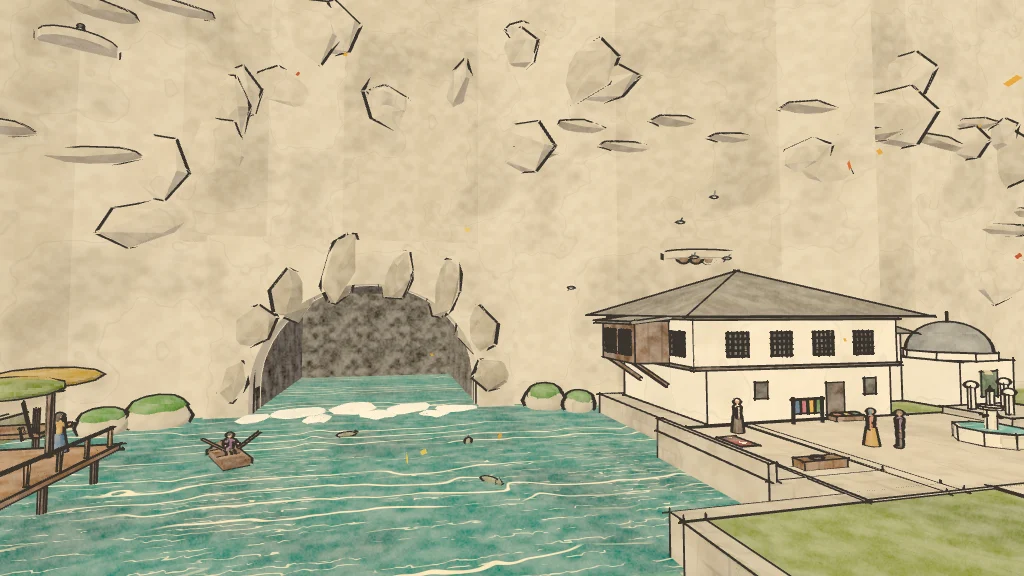
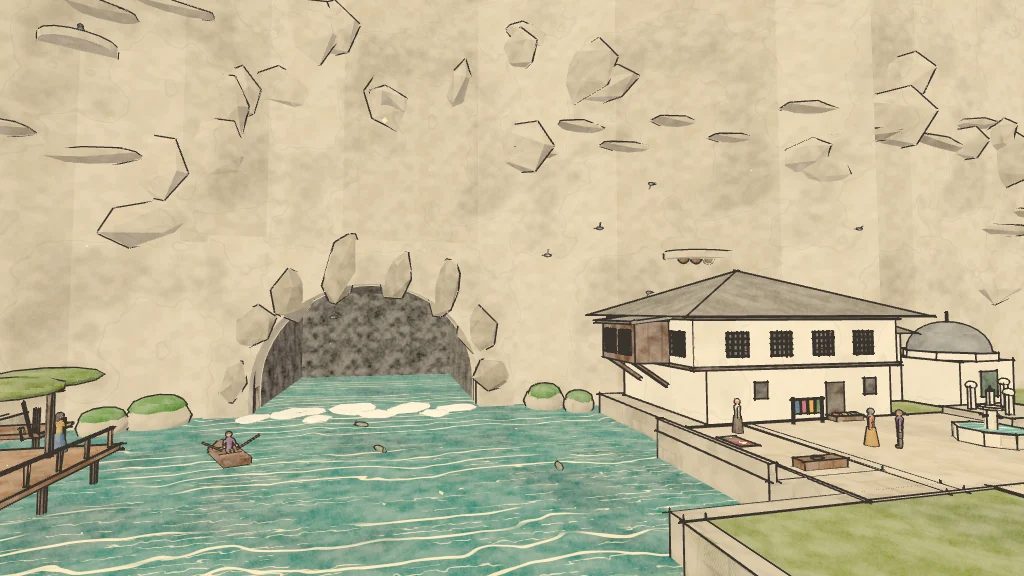
Two new art styles (cel shading, comic book); Blagaj moves to summer
Cel shading: flat colour in two hard bands of light, a crisp highlight and a thin
rim of light. Comic book: punchy flat colour, halftone dots in the shadows and the
sky, ink cross-hatching in the deepest shadows, newsprint paper. Both draw bolder,
darker outlines. Blagaj is summer now (boats to the cave at low water, swallows
nesting, figs and grapes): green trees and vine, a higher sun, sparkles on the water.

diff --git a/src/paper.js b/src/paper.js
@@ -8,9 +8,10 @@ import { LineMaterial } from 'three/addons/lines/LineMaterial.js';
 import S from './settings.js';
 
 // The look. The original is the watercolour; the others are trials (this file's shader differs between them, and
-// pixel art is also drawn small and scaled up, src/look.js): coloured pencil, crayon, gouache, spray paint and pixel art.
+// pixel art is also drawn small and scaled up, src/look.js): coloured pencil, crayon, gouache, spray paint, pixel art,
+// cel shading and comic book (these two also draw bolder, darker outlines: inkFor()).
 // ?style= in the address wins, then the choice made in the pause menu ("Style"), then settings.js
-export const STYLES = ['watercolor', 'pencil', 'crayon', 'gouache', 'spray', 'pixel'];
+export const STYLES = ['watercolor', 'pencil', 'crayon', 'gouache', 'spray', 'pixel', 'cel', 'comic'];
 export const onStyle = [];      // called after a switch
 const STYLE_KEY = 'slavuj-style';
 const storedStyle = () => { try { return localStorage.getItem(STYLE_KEY); } catch (e) { return null; } };
@@ -22,6 +23,7 @@ const washMats = [];
 export function setStyle(name) {
   look.style = pickStyle(name); try { localStorage.setItem(STYLE_KEY, look.style); } catch (e) { /* no storage */ }
   for (const m of washMats) { m.defines = styleDefines(); m.needsUpdate = true; }
+  applyInk();
   for (const f of onStyle) f(look.style);
 }
 
@@ -233,7 +235,7 @@ void main(){
   float rim = m * smoothstep(front - 0.11, front - 0.04, d);
   float damp = (1.0 - m) * (1.0 - smoothstep(front, front + 0.25, d)) * step(0.001, p);
 
-#if defined(STYLE_PENCIL) || defined(STYLE_CRAYON) || defined(STYLE_GOUACHE) || defined(STYLE_SPRAY) || defined(STYLE_PIXEL)
+#if defined(STYLE_PENCIL) || defined(STYLE_CRAYON) || defined(STYLE_GOUACHE) || defined(STYLE_SPRAY) || defined(STYLE_PIXEL) || defined(STYLE_CEL) || defined(STYLE_COMIC)
   float lit = 1.0 - shade;
   vec3 base = col; float lum = dot(base, vec3(0.3, 0.59, 0.11));
   vec3 painted;
@@ -306,6 +308,38 @@ void main(){
   m = step(0.5, m); rim = 0.0; damp = 0.0;      // a crisp edge as the colour arrives
   hatch = 0.0; pink = step(0.18, pink) * 0.6;
   #endif
+  #ifdef STYLE_CEL
+  // ---- cel shading: flat colour in two hard bands of light, a crisp highlight and a thin rim of light; bold outlines ----
+  paper = uPaper;
+  base = (pat > 0.5 && pat < 1.5) ? col : mix(vCol, vBleed, step(0.72, blotch) * 0.3);      // (no soft blotches: crisp patches)
+  base = clamp(mix(vec3(dot(base, vec3(0.3, 0.59, 0.11))), base, 1.3), 0.0, 1.0);
+  vec3 V = normalize(cameraPosition - vWorld), H = normalize(L + V);
+  float band = step(0.46, lit);
+  painted = sky ? col : mix(base * mix(vec3(0.6, 0.58, 0.8), vec3(0.64, 0.5, 0.68), sun), base * 1.03, band);
+  float spec = sky ? 0.0 : step(0.965, max(dot(N, H), 0.0)) * band;
+  painted = mix(painted, min(base * 1.25 + 0.16, vec3(1.0)), spec * 0.7);
+  painted = mix(painted, min(base * 1.18 + 0.06, vec3(1.0)), sky ? 0.0 : step(0.66, 1.0 - max(dot(N, V), 0.0)) * band * 0.35);
+  painted = mix(painted, vec3(0.97, 0.98, 1.0), step(0.35, streak));
+  m = step(0.5, m); rim = 0.0; damp = 0.0;      // a crisp edge as the colour arrives
+  hatch = 0.0; pink = step(0.18, pink) * 0.55;
+  #endif
+  #ifdef STYLE_COMIC
+  // ---- comic book: punchy flat colour, halftone dots in the shadows (and over the sky), ink cross-hatching in the
+  // deepest shadows, newsprint paper, thick black outlines. The dots are on the page (screen), as printed. ----
+  paper = uPaper * vec3(1.0, 0.985, 0.93) * (0.97 + 0.05 * grain);
+  base = (pat > 0.5 && pat < 1.5) ? col : vCol;      // (flat colour, no blotches)
+  base = clamp(mix(vec3(dot(base, vec3(0.3, 0.59, 0.11))), base, 1.6), 0.0, 1.0);
+  vec2 hp = mat2(0.7071, -0.7071, 0.7071, 0.7071) * (gl_FragCoord.xy / (uPx * 5.0));
+  float dd = length(fract(hp) - 0.5), aa = fwidth(dd) + 0.02;
+  float shAmt = smoothstep(0.4, 0.86, shade + (mid - 0.5) * 0.08);
+  float dotIn = 1.0 - smoothstep(shAmt * 0.56 - aa, shAmt * 0.56 + aa, dd);
+  vec3 dotC = base * mix(vec3(0.42, 0.4, 0.62), vec3(0.48, 0.36, 0.5), sun);
+  painted = sky ? mix(col * 1.02, col * 0.8, 1.0 - smoothstep(0.17 - aa, 0.17 + aa, dd)) : mix(base * 1.04, dotC, dotIn);
+  painted = mix(painted, vec3(1.0), sky ? 0.0 : step(0.93, lit) * 0.35);
+  painted = mix(painted, vec3(0.98, 0.98, 0.95), step(0.35, streak));
+  hatch = sky ? 0.0 : clamp(h2 * 1.3, 0.0, 1.0) * vPar.z * 1.6;      // only the darkest shadows get ink lines
+  m = step(0.5, m); rim = 0.0; damp = 0.0; pink = step(0.18, pink) * 0.7;
+  #endif
   painted += sun * 0.08 * max(dot(N, uSunDir), 0.0) * uSunGlow;
   painted *= 1.0 - 0.18 * rim;
   vec3 c = mix(paper * (1.0 - 0.05 * damp), painted, m);
@@ -360,6 +394,15 @@ export function washMat(tagName, o = {}) {
 // ---- ink ----
 export const inkMaterial = new LineMaterial({ color: new THREE.Color(S.ink.color), linewidth: S.ink.lineWidth });
 const fadeMats = [];   // outlines that disappear once their tag has been coloured (grass, hanging branches)
+// cel shading and comic book draw bolder, darker outlines; every other look keeps the usual ink
+const INK = { cel: { k: 1.6, color: '#1f1b18' }, comic: { k: 2.1, color: '#100e0d' } };
+const inkFor = () => INK[look.style] || { k: 1, color: S.ink.color };
+function applyInk() {
+  const { k, color } = inkFor();
+  shared.uInk.value.set(color); inkMaterial.color.set(color); inkMaterial.linewidth = S.ink.lineWidth * k;
+  for (const m of fadeMats) { m.color.set(color); m.linewidth = S.ink.lineWidth * k; }
+  for (const [w, m] of Object.entries(hullMats)) m.uniforms.uW.value = +w * k;
+}
 
 const HULL_VERT = /* glsl */`
 attribute vec3 aSeed; attribute vec4 aAni;
@@ -381,7 +424,7 @@ const hullMats = {};
 export function hullMat(width = S.ink.lineWidth) {
   return hullMats[width] ||= new THREE.ShaderMaterial({
     vertexShader: HULL_VERT, fragmentShader: HULL_FRAG, side: THREE.BackSide,
-    uniforms: { uW: { value: width }, uRes: shared.uRes, uInk: shared.uInk, uTime: shared.uTime, uLife: shared.uLife, uFlow: shared.uFlow },
+    uniforms: { uW: { value: width * inkFor().k }, uRes: shared.uRes, uInk: shared.uInk, uTime: shared.uTime, uLife: shared.uLife, uFlow: shared.uFlow },
   });
 }
 export function addHull(mesh, width) { const h = new THREE.Mesh(mesh.geometry, hullMat(width)); mesh.add(h); return h; }
@@ -513,7 +556,7 @@ export class Builder {
       }
       out[t.name] = mesh;
       if (t.fink?.length) {
-        const fm = new LineMaterial({ color: new THREE.Color(S.ink.color), linewidth: S.ink.lineWidth, transparent: true }); fadeMats.push(fm);
+        const fm = new LineMaterial({ color: new THREE.Color(inkFor().color), linewidth: S.ink.lineWidth * inkFor().k, transparent: true }); fadeMats.push(fm);
         t.fadeLine = new LineSegments2(new LineSegmentsGeometry().setPositions(t.fink), fm); t.fadeLine.frustumCulled = false; scene.add(t.fadeLine); t.fink = null;
       }
       for (const k of ['pos', 'nor', 'uv', 'col', 'bleed', 'par', 'sway', 'hpos', 'hnor', 'hsway']) t[k] = null;
@@ -527,3 +570,5 @@ export class Builder {
 export function setResolution(w, h, px) {
   shared.uRes.value.set(w, h); shared.uPx.value = px; inkMaterial.resolution.set(w, h); for (const m of fadeMats) m.resolution.set(w, h);
 }
+
+applyInk();      // (the look chosen at the start)

diff --git a/src/maps/blagaj-world.js b/src/maps/blagaj-world.js
@@ -1,4 +1,4 @@
-// Blagaj (autumn): the spring of the Buna (Vrelo Bune) pouring out of a great cave at the foot of a sheer
+// Blagaj (summer): the spring of the Buna (Vrelo Bune) pouring out of a great cave at the foot of a sheer
 // limestone cliff, the dervish Tekija built against the rock beside it with its bay window over the water,
 // the turbe and its nišani, the stalls on the path, a restaurant terrace under a vine pergola facing the Tekija,
 // the old mills and stamping mill on a mill race, the walled Velagić house, the five-arched Karađoz-beg bridge
@@ -11,7 +11,7 @@ import S from '../settings.js';
 export const TOWN_Y = 1.6;      // the banks, a little above the water (y = 0)
 export const CLIFF_Y = 62;      // the top of the cliff, where Stjepan grad stands
 export const BRIDGE_Y = 4.2;    // the deck of the Karađoz-beg bridge
-export const SUN_BLAGAJ = new THREE.Vector3(-0.42, 0.52, 0.74).normalize();     // low autumn sun in the south-west, lighting the cliff face
+export const SUN_BLAGAJ = new THREE.Vector3(-0.36, 0.68, 0.64).normalize();     // high summer sun in the south-west, lighting the cliff face
 
 const V = (x, y, z) => new THREE.Vector3(x, y, z);
 const clamp = (x, lo, hi) => Math.max(lo, Math.min(hi, x));
@@ -108,11 +108,11 @@ export function buildBlagajWorld(scene) {
   const A = (geo, x, y, z, o, ry = 0, rx = 0, rz = 0, s = 1) => b.add(geo, mat4(x, y, z, ry, rx, rz, s), o);
   const box = (w, h, d, x, y, z, o, ry = 0, rx = 0, rz = 0) => A(BOX, x, y, z, o, ry, rx, rz, [w, h, d]);
 
-  // Warm, low autumn light from the south-west on the pale cliff; the Buna flows south (+z)
+  // Bright, hot Herzegovinian summer light from the south-west on the pale cliff; the Buna flows south (+z)
   shared.uSunDir.value.copy(SUN_BLAGAJ);
   shared.uWaterDir.value.set(0, 1);
   shared.uSunShadow.value.set(0.55, 0.53, 0.62);
-  shared.uSunGlow.value.set(1.0, 0.86, 0.6);
+  shared.uSunGlow.value.set(1.0, 0.92, 0.7);
   shared.uSunTint.value.set(1.06, 0.99, 0.9);
   shared.uSkyGlow.value.set(0.95, 0.93, 0.88);
 
@@ -510,7 +510,7 @@ export function buildBlagajWorld(scene) {
   b.object(() => {
     for (let i = 0; i < 24; i++) {
       const lx = -24.4 + (i % 4) * 3.2 + rr(-0.7, 0.7), lz = -27.6 + Math.floor(i / 4) * 3.4 + rr(-0.7, 0.7);
-      A(ICO, lx, TER_Y + 3.7 + rr(0, 0.25), lz, { tag: 'loza', col: i % 3 ? '#8aa040' : '#c2a238', bleed: i % 3 ? '#5d7326' : '#8f6d1c', hull: true, sway: 0.08, orb: 'loza' }, R() * 3, 0, 0, [2.5, 0.42, 2.3]);
+      A(ICO, lx, TER_Y + 3.7 + rr(0, 0.25), lz, { tag: 'loza', col: i % 3 ? '#8aa040' : '#7d9a3c', bleed: i % 3 ? '#5d7326' : '#56702a', hull: true, sway: 0.08, orb: 'loza' }, R() * 3, 0, 0, [2.5, 0.42, 2.3]);
     }
   });
   b.object(() => {
@@ -678,7 +678,7 @@ export function buildBlagajWorld(scene) {
   // the mulberry ('dud') shading the courtyard; cypresses ('cempres') outside the wall
   b.object(() => {
     A(CYL, -25.5, TOWN_Y + 1.8, 51, { tag: 'dud', col: '#6b5340', bleed: '#4a3829', orb: 'dud' }, 0, 0, -0.1, [0.4, 3.6, 0.4]);
-    for (const [ox, oy, oz, r] of [[0, 4.6, 0, 2.6], [-1.6, 4.0, 0.9, 1.8], [1.5, 4.2, -0.8, 1.9]]) A(ICO, -25.5 + ox, TOWN_Y + oy, 51 + oz, { tag: 'dud', col: '#a3a43c', bleed: '#727323', hull: true, sway: 0.12, orb: 'dud' }, 0, 0, 0, [r, r * 0.72, r]);
+    for (const [ox, oy, oz, r] of [[0, 4.6, 0, 2.6], [-1.6, 4.0, 0.9, 1.8], [1.5, 4.2, -0.8, 1.9]]) A(ICO, -25.5 + ox, TOWN_Y + oy, 51 + oz, { tag: 'dud', col: '#5f8f3c', bleed: '#3f6526', hull: true, sway: 0.12, orb: 'dud' }, 0, 0, 0, [r, r * 0.72, r]);
   });
   b.object(() => {
     for (const [cx, cz, s] of [[-16.5, 30.5, 1.1], [-16.5, 55.5, 1.0], [-49, 59, 1.15]]) {
@@ -823,13 +823,13 @@ export function buildBlagajWorld(scene) {
   }
   const trees = [
     // willows and poplars along the Buna below the bridge, figs and pomegranates in the gardens, cypresses and pines
-    [-17, TOWN_Y, 10, 1.1, '#c9b03e', '#93801f', 'riverbank', 'round'], [17, TOWN_Y, 60, 1.1, '#d0a63a', '#9a771c', 'riverbank', 'round'],
-    [-17, TOWN_Y, 68, 1.15, '#b9b445', '#878222', 'riverbank', 'round'], [17, TOWN_Y, 100, 1.2, '#dc9a35', '#a56c18', 'riverbank', 'round'],
-    [-17, TOWN_Y, 104, 1.1, '#c8a23a', '#93741b', 'riverbank', 'round'], [48, TOWN_Y, 24, 1.0, '#7e9a42', '#56702a', 'riverbank', 'round'],
+    [-17, TOWN_Y, 10, 1.1, '#7aa045', '#52702a', 'riverbank', 'round'], [17, TOWN_Y, 60, 1.1, '#6f9a40', '#4a6b26', 'riverbank', 'round'],
+    [-17, TOWN_Y, 68, 1.15, '#86a84a', '#5c7830', 'riverbank', 'round'], [17, TOWN_Y, 100, 1.2, '#6a943e', '#476a26', 'riverbank', 'round'],
+    [-17, TOWN_Y, 104, 1.1, '#7ea446', '#56722c', 'riverbank', 'round'], [48, TOWN_Y, 24, 1.0, '#7e9a42', '#56702a', 'riverbank', 'round'],
     [-48, TOWN_Y, 0, 1.0, '#829c44', '#5a722b', 'riverbank', 'round'], [52, TOWN_Y, -20, 1.0, '#2f5a36', '#1c3b22', 'riverbank', 'cypress'],
     [-44, TOWN_Y, -30, 1.1, '#2f5a36', '#1c3b22', 'riverbank', 'cypress'], [70, TOWN_Y, 0, 1.15, '#2f5a36', '#1c3b22', 'riverbank', 'cypress'],
-    [-68, TOWN_Y, 40, 1.1, '#2f5a36', '#1c3b22', 'riverbank', 'cypress'], [36, TOWN_Y, 70, 1.2, '#cf8a33', '#985f17', 'riverbank', 'round'],
-    [-40, TOWN_Y, 88, 1.15, '#c79a37', '#92701a', 'riverbank', 'round'], [74, TOWN_Y, 50, 1.2, '#3f6438', '#273f22', 'riverbank', 'pine'],
+    [-68, TOWN_Y, 40, 1.1, '#2f5a36', '#1c3b22', 'riverbank', 'cypress'], [36, TOWN_Y, 70, 1.2, '#729c42', '#4d6e28', 'riverbank', 'round'],
+    [-40, TOWN_Y, 88, 1.15, '#80a245', '#57742b', 'riverbank', 'round'], [74, TOWN_Y, 50, 1.2, '#3f6438', '#273f22', 'riverbank', 'pine'],
     [-74, TOWN_Y, -12, 1.2, '#3f6438', '#273f22', 'riverbank', 'pine'],
     // up on the plateau, between the fortress and the cliff edge
     [-4, CLIFF_Y, -62, 1.0, '#3f6438', '#273f22', 'hills', 'pine'], [48, CLIFF_Y, -58, 1.05, '#7f8f46', '#58662c', 'hills', 'round'],

diff --git a/src/maps/blagaj.js b/src/maps/blagaj.js
@@ -1,21 +1,21 @@
-// Blagaj (autumn): map module. The Buna spring under the cliff, the Tekija, the boat on the pool, trout, swallows
-// along the rock, the falcon, the stamping mill's hammers, a tortoise on the karst, leaves, and local sounds.
+// Blagaj (summer): map module. The Buna spring under the cliff, the Tekija, the boat on the pool, trout, swallows
+// along the rock, the falcon, the stamping mill's hammers, a tortoise on the karst, sun sparkles on the water, and local sounds.
 import { Vector3 } from 'three';
 import { buildBlagajWorld, TOWN_Y, CLIFF_Y } from './blagaj-world.js';
 import { WORDS, ORDER, CULTURE } from './blagaj-words.js';
-import { createDrinaLeaves } from '../drina-leaves.js';
+import { createSummerSparkles } from '../summer-sparkles.js';
 import art from '../../assets/journal-blagaj.webp';
 
 const V = (x, y, z) => new Vector3(x, y, z);
 const clamp = (x, lo, hi) => Math.max(lo, Math.min(hi, x));
 
-let leaves = null;
+let sparkles = null;
 let nextFalcon = 10;
 let nextCoo = 6;
 
 function build(scene) {
   const world = buildBlagajWorld(scene);
-  leaves = createDrinaLeaves(scene, { count: 160, bounds: 80 });
+  sparkles = createSummerSparkles(scene, { count: 180, xSpan: 22, zMin: -60, zMax: 120, waterY: 0.12 });
   nextFalcon = 10;
   nextCoo = 6;
   return world;
@@ -85,18 +85,18 @@ function updateBlagaj(dt, time, life, ctx) {
     }
   }
 
-  leaves?.update(dt);
+  sparkles?.update(dt);
 }
 
 function wakeBlagaj() {
-  leaves?.show();
+  sparkles?.show();
 }
 
 export default {
   id: 'blagaj',
   name: 'Blagaj',
   art,
-  artAlt: 'Blagaj in autumn: the white Tekija with its wooden bay window against the tall pale cliff, beside the dark cave the Buna pours out of, painted in watercolour',
+  artAlt: 'Blagaj in summer: the white Tekija with its wooden bay window against the tall pale cliff, beside the dark cave the Buna pours out of, painted in watercolour',
   WORDS,
   ORDER,
   CULTURE,
@@ -131,7 +131,7 @@ export default {
     first: 'New orbs have appeared all over Blagaj, from the spring to the cliff top. Find them in any order.',
     last: { id: 'tvrdjava', msg: 'Only one orb is left. It is waiting on the hill above the cliff, by the walls of Stjepan grad.' },
     fleur: 'Something golden is shining above the fortress of Stjepan grad. Fly through it.',
-    awake: 'Blagaj has woken up in the autumn sun. You can now explore it freely.',
+    awake: 'Blagaj has woken up in the summer sun. You can now explore it freely.',
   },
 
   update: updateBlagaj,
@@ -163,13 +163,12 @@ export default {
       { t0: 0, t1: 7, from: V(-74, 96, -150), to: V(-56, 90, -132), lookFrom: V(-22, 66, -90), lookTo: V(6, 40, -30) },
       // 7 to 13.4 s: down the face of the cliff to the cave and the Tekija
       { t0: 7, t1: 13.4, from: V(-26, 46, 12), to: V(-30, 22, 6), lookFrom: V(4, 40, -46), lookTo: V(4, 8, -40) },
-      // 13.4 to 22 s: gliding across the pool, past the Tekija's bay window and the terrace; the leaves swirl
+      // 13.4 to 22 s: gliding across the pool, past the Tekija's bay window and the terrace
       { t0: 13.4, t1: 22, from: V(-12, 6, -12), to: V(8, 7, -8), lookFrom: V(2, 4, -42), lookTo: V(24, 6, -32) },
       // 22 to 26 s: down the Buna to the mills and the Karađoz-beg bridge
       { t0: 22, t1: 26, from: V(-30, 18, 20), to: V(-22, 22, 30), lookFrom: V(8, 4, 44), lookTo: V(0, 4, 84) },
     ],
     climax(ctx) {
-      leaves?.gust();
       ctx.audio.playClip('falcon-cry', 0.22);
     },
   },

diff --git a/src/maps/blagaj-words.js b/src/maps/blagaj-words.js
@@ -1,4 +1,4 @@
-// Blagaj (autumn): 69 learnable words + the finale word 'mir', plus the culture travelogue page.
+// Blagaj (summer): 69 learnable words + the finale word 'mir', plus the culture travelogue page.
 // Keep this module import-free so the Bosnia map (src/maps/counts.js) stays light.
 export const WORDS = {
   // Zone 1: Vrelo Bune, the spring of the Buna under the cliff (10)
@@ -30,7 +30,7 @@ export const WORDS = {
   // Zone 3: The stalls along the path to the Tekija (10)
   tezga:       { word: 'tezga',        en: 'market stall',                q: 'The wooden stand with a striped awning where things are sold by the path. Which word is it?', choices: ['tezga', 'krevet', 'ormar'] },
   prodavacica: { word: 'prodavačica',  en: 'saleswoman',                  q: 'Who stands behind the stall and sells juice and figs to visitors?', choices: ['prodavačica', 'učiteljica', 'doktorica'] },
-  nar:         { word: 'nar',          en: 'pomegranate',                 q: 'The round red autumn fruit full of juicy seeds, piled high on the stall. Which word is it?', choices: ['nar', 'krompir', 'luk'] },
+  nar:         { word: 'nar',          en: 'pomegranate',                 q: 'The round red fruit full of juicy seeds, piled high on the stall. Which word is it?', choices: ['nar', 'krompir', 'luk'] },
   sok:         { word: 'sok',          en: 'juice',                       q: 'The deep red drink pressed fresh from pomegranates, in glasses on the stall. Which word is it?', choices: ['sok', 'čaj', 'mlijeko'] },
   smokva:      { word: 'smokva',       en: 'fig (fruit and tree)',        q: 'The soft purple fruit of Herzegovina, in a basket under its broad-leaved tree. Which word is it?', choices: ['smokva', 'jabuka', 'kruška'] },
   med:         { word: 'med',          en: 'honey',                       q: 'The golden sweet stuff in glass jars, made by bees from the karst herbs. Which word is it?', choices: ['med', 'ulje', 'sirće'] },

diff --git a/src/main.js b/src/main.js
@@ -261,7 +261,7 @@ $('reset').addEventListener('click', restartLevel);
 { const b = $('mute'), show = () => { b.querySelector('.lb').textContent = audio.isMuted() ? 'Sound: off' : 'Sound: on'; b.classList.toggle('muted', audio.isMuted()); }; show();
   b.addEventListener('click', (e) => { e.stopPropagation(); audio.setMuted(!audio.isMuted()); show(); }); }
 // the art style trials: each click moves to the next look (remembered in this browser)
-{ const NAMES = { watercolor: 'watercolour', pencil: 'coloured pencil', crayon: 'crayon', gouache: 'gouache', spray: 'spray paint', pixel: 'pixel art' };
+{ const NAMES = { watercolor: 'watercolour', pencil: 'coloured pencil', crayon: 'crayon', gouache: 'gouache', spray: 'spray paint', pixel: 'pixel art', cel: 'cel shading', comic: 'comic book' };
   const b = $('style'), show = () => { b.querySelector('.lb').textContent = 'Style: ' + NAMES[artLook.style]; }; show();
   b.addEventListener('click', (e) => { e.stopPropagation(); setStyle(STYLES[(STYLES.indexOf(artLook.style) + 1) % STYLES.length]); show(); }); }
 for (const [id, fn] of [['restart', restartLevel], ['toFinale', skipToFinale]]) {

diff --git a/src/maps/index.js b/src/maps/index.js
@@ -4,7 +4,7 @@
 export const MAPS = [
   { id: 'neum', name: 'Neum', season: 'Ljeto', en: 'summer', lat: 42.923, lon: 17.615 },
   { id: 'mostar', name: 'Mostar', season: 'Ljeto', en: 'summer', lat: 43.343, lon: 17.808 },
-  { id: 'blagaj', name: 'Blagaj', season: 'Jesen', en: 'autumn', lat: 43.257, lon: 17.886 },
+  { id: 'blagaj', name: 'Blagaj', season: 'Ljeto', en: 'summer', lat: 43.257, lon: 17.886 },
   { id: 'sarajevo', name: 'Sarajevo', season: 'Jesen', en: 'autumn', lat: 43.859, lon: 18.431 },
   { id: 'jahorina', name: 'Jahorina', season: 'Zima', en: 'winter', lat: 43.738, lon: 18.567 },
   { id: 'visegrad', name: 'Višegrad', season: 'Jesen', en: 'autumn', lat: 43.782, lon: 19.292 },
